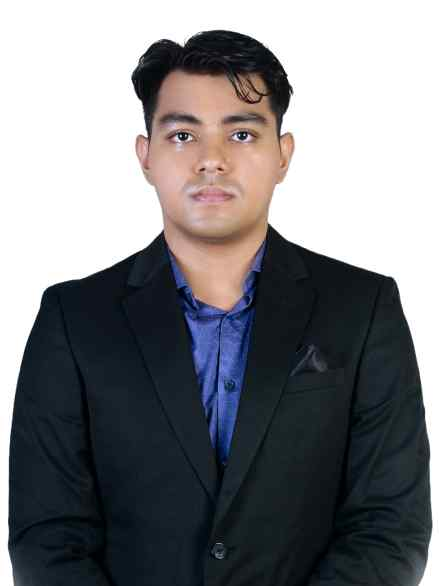
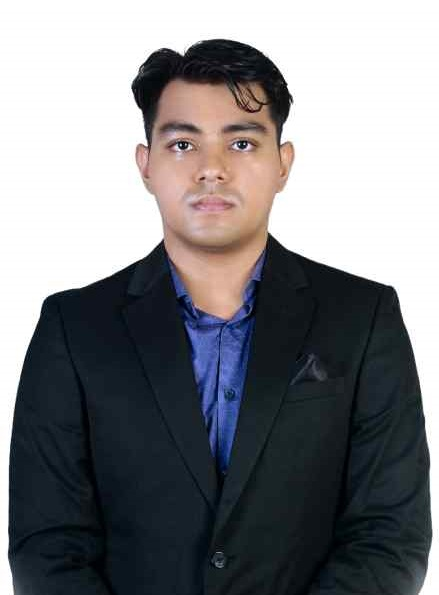
Update SC core photos

diff --git a/src/pages/teams/2024-25/coreList.ts b/src/pages/teams/2024-25/coreList.ts
@@ -50,7 +50,7 @@ const coreMembers = [
   {
     name: "Rahul Gadhiraju",
     designation: "Design Head",
-    imgSrc: "#",
+    imgSrc: "/images/team/core/sc/rahul.jpg",
     links: { instagram: "#", linkedin: "#", github: "#" },
   },
   {
